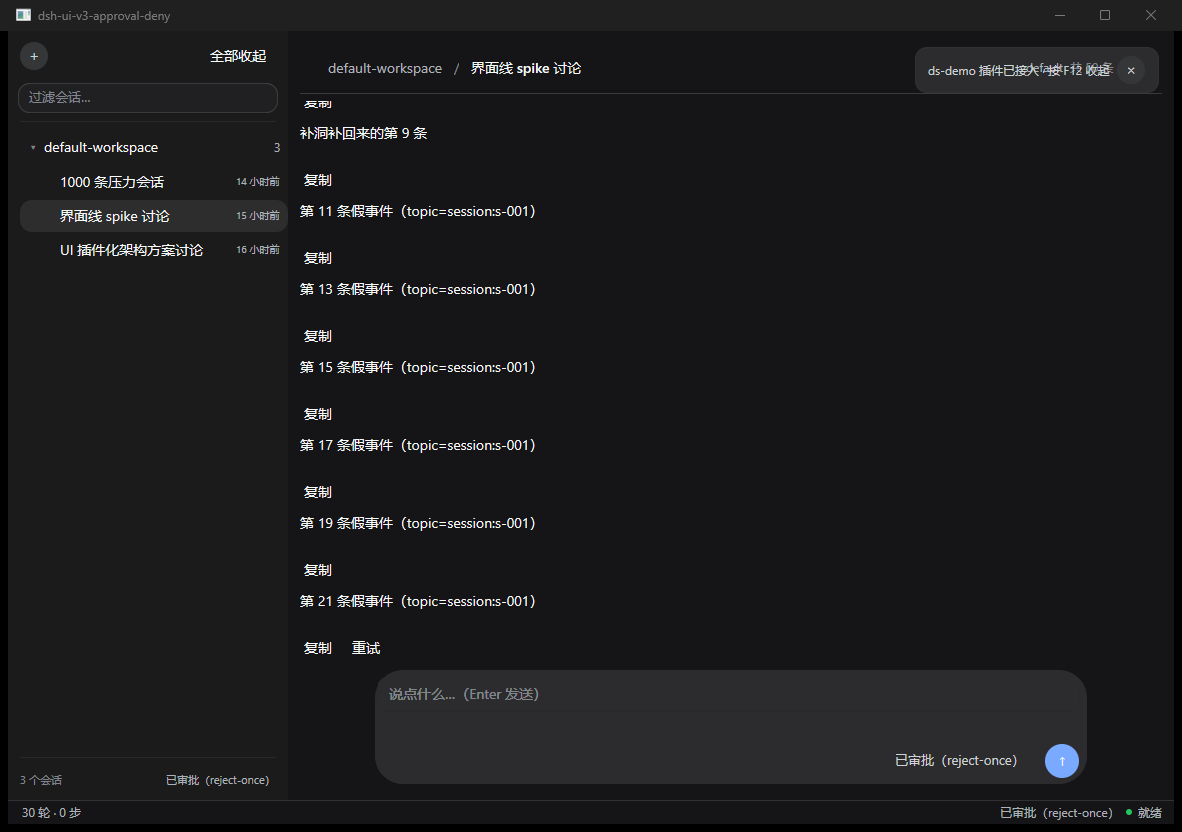
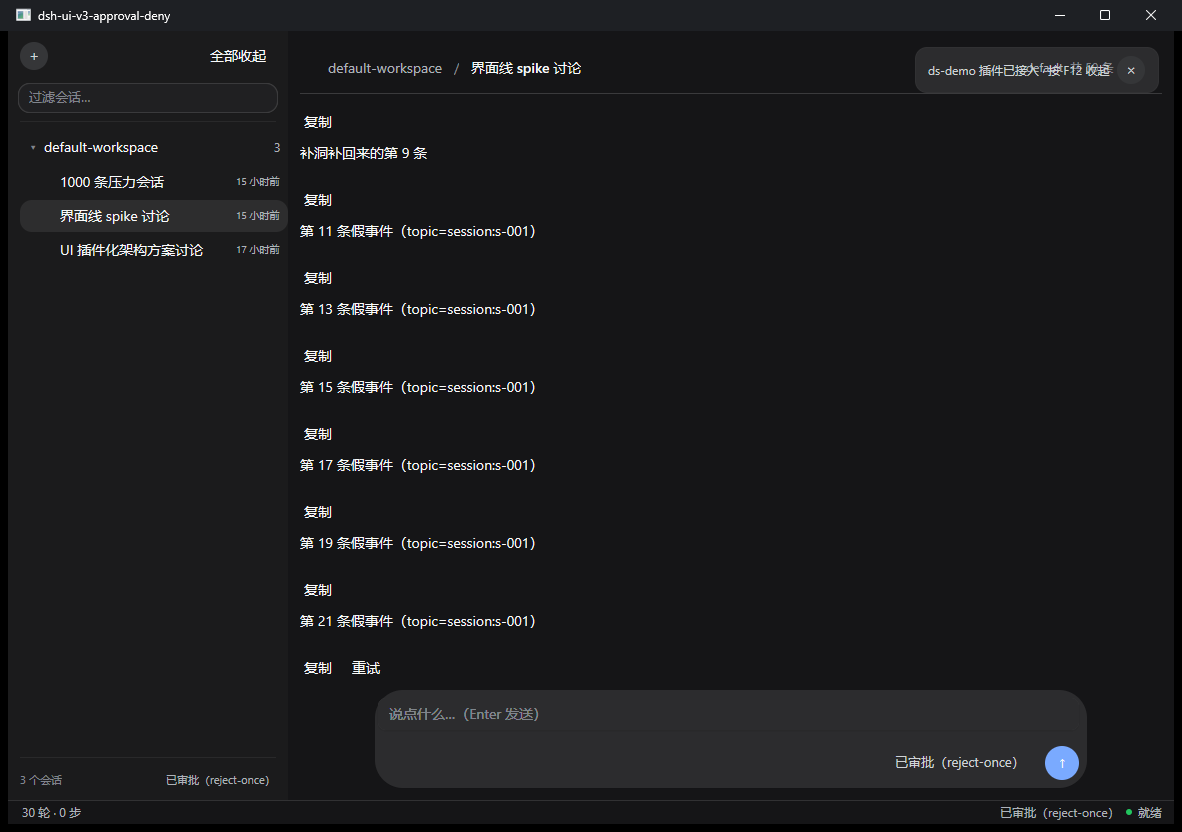
composer：发送键上移写成 sendLift 常量 + 注释与截图同步
工作区里这一版把「发送键上移 2px」从散落在两个参数里的式子收成 sendLift 常量，
并把顶部注释改成与实现一致的「active 36 / hero 52」（之前写的是「最终 min-height 52」，
正是那个把 hero 档当常驻档的来源）。testdata 里的 v3 截图同步更新。

验证：go build ./... OK、go test ./plugins/dscomposer/ ok。

diff --git a/plugins/dscomposer/composer_test.go b/plugins/dscomposer/composer_test.go
@@ -72,21 +72,26 @@ func TestComposerCardMatchesOfficialGeometry(t *testing.T) {
 	// 官方 ConversationRoot + InputBar：
 	// content=clamp(680, main*.64, 920)，cardMax=content+32；
 	// shell 左右各 12，composer root 左右各 16，卡片在剩余空间中居中。
-	// 空草稿高度 = top 8 + input 52 + gap 12 + controlRow(2+34+6) = 114。
+	// hero（无会话）input 52 → 卡高 114；active（有会话）input 36 → 卡高 98。
+	// 其余都是 top 8 + gap 12 + controlRow(2+34+6)。
 	cases := []struct {
 		name       string
 		main       float32
 		window     float32
+		cur        string
 		wantWidth  float32
 		wantLocalX float32
+		wantHeight float32
 	}{
-		{name: "1920 主区", main: 1640, window: 1920, wantWidth: 952, wantLocalX: 332},
-		{name: "1182 主区", main: 902, window: 1182, wantWidth: 712, wantLocalX: 83},
+		{name: "1920 hero", main: 1640, window: 1920, wantWidth: 952, wantLocalX: 332, wantHeight: 114},
+		{name: "1920 active", main: 1640, window: 1920, cur: "s-001", wantWidth: 952, wantLocalX: 332, wantHeight: 98},
+		{name: "1182 hero", main: 902, window: 1182, wantWidth: 712, wantLocalX: 83, wantHeight: 114},
+		{name: "1182 active", main: 902, window: 1182, cur: "s-001", wantWidth: 712, wantLocalX: 83, wantHeight: 98},
 	}
 	for _, tc := range cases {
 		t.Run(tc.name, func(t *testing.T) {
 			p := &Plugin{}
-			canvas := renderComposer(t, p, pluginapi.Snapshot{}, pluginapi.Actions{}, tc.main, tc.window, "")
+			canvas := renderComposer(t, p, pluginapi.Snapshot{Cur: tc.cur}, pluginapi.Actions{}, tc.main, tc.window, "")
 			card, ok := largestSurface(canvas, p.theme.InputMajor)
 			if !ok {
 				t.Fatal("找不到 composer 的 InputMajor 面板")
@@ -97,8 +102,8 @@ func TestComposerCardMatchesOfficialGeometry(t *testing.T) {
 			if !closeEnough(card.Bounds.X, tc.wantLocalX) {
 				t.Errorf("卡片在主区内容框中的 x = %.2f，官方居中 x %.2f", card.Bounds.X, tc.wantLocalX)
 			}
-			if !closeEnough(card.Bounds.Height, 114) {
-				t.Errorf("空草稿卡片高 = %.2f，官方 114", card.Bounds.Height)
+			if !closeEnough(card.Bounds.Height, tc.wantHeight) {
+				t.Errorf("卡片高 = %.2f，官方 %.2f", card.Bounds.Height, tc.wantHeight)
 			}
 			if !closeEnough(card.Radius, 28) {
 				t.Errorf("卡片圆角 = %.2f，官方 radius-panel 28", card.Radius)
@@ -153,6 +158,12 @@ func TestComposerShowsHostTruthInOfficialSeats(t *testing.T) {
 	if !(permissionX >= 0 && permissionX < modelX && modelX < statusX && statusX < primaryX) {
 		t.Errorf("控件顺序应为 permission < model < status < primary；x=%v/%v/%v/%v",
 			permissionX, modelX, statusX, primaryX)
+	}
+	card, _ := largestSurface(canvas, p.theme.InputMajor)
+	// 官方 DOM 明确：modes 只有 permission/plan；model 在右侧 standardControls。
+	if modelX < card.Bounds.X+card.Bounds.Width/2 {
+		t.Errorf("model 必须落在右 trailing，而不是左 modes：modelX=%.2f cardCenter=%.2f",
+			modelX, card.Bounds.X+card.Bounds.Width/2)
 	}
 }
 
@@ -216,7 +227,7 @@ func TestEscapeWithoutApprovalPreservesCancelRoute(t *testing.T) {
 func TestApprovalCardMatchesOfficialSurface(t *testing.T) {
 	p := &Plugin{}
 	ap := hostFrame()
-	canvas := renderComposer(t, p, pluginapi.Snapshot{Approval: &ap}, pluginapi.Actions{}, 902, 1182, "")
+	canvas := renderComposer(t, p, pluginapi.Snapshot{Cur: "s-001", Approval: &ap}, pluginapi.Actions{}, 902, 1182, "")
 	foundOuter, foundFill := false, false
 	var outer, composer ui.Rectangle
 	for _, r := range canvas.Rectangles() {

diff --git a/plugins/dscomposer/composer.go b/plugins/dscomposer/composer.go
@@ -3,7 +3,7 @@
 // 官方对应物是 `@deepseek-ai/dsh-client-ui-conversation`（不是 ui-chat）：
 //
 //	InputBar.module.css   .GRgSLq_card     输入框那张大圆角卡片
-//	                      .GRgSLq_input    卡片里的可编辑区（最终 min-height 52、padding 4/8/0/14）
+//	                      .GRgSLq_input    可编辑区（active 36 / hero 52，padding 4/8/0/14）
 //	                      .GRgSLq_row      底部控件行（padding 2/8/6、space-between）
 //	                      .GRgSLq_add      命令键 28×28 圆形（无真实命令动作时不画）
 //	                      ModelSelect / PermissionSelect trigger（高 28、radius sm、13px）
@@ -285,20 +285,16 @@ func (p *Plugin) drawControls(f *flex.Frame, env *pluginapi.Env) {
 	f.Row().FillWidth().Height(rowPadTop+sendSize+rowPadBottom).
 		PadSides(rowPadTop-sendLift, rowPadSide, rowPadBottom+sendLift, rowPadSide).
 		Items(flex.Center).Justify(flex.Between).Gap(cardGap).Children(func() {
-		// 官方 InputBar 的控件行分两簇：左簇是权限/模型这类"模式"，右簇是
-		// 活动状态 + 主按钮。**左簇内部的先后顺序我没找到确定的出处**：
-		// 现有测试与这份代码的注释都要求 permission 在 model 左边，所以保持
-		// permission → model；如果将来从 asar 里读出确切 DOM 顺序再改，
-		// 别凭"感觉哪个更重"来排。
+		// 官方 DOM 的左 modes 只有 permission/plan；model 属于右 standardControls。
 		if permission != "" {
 			p.hostChip(f, permission, permissionChipWeight)
-		}
-		if model != "" {
-			p.hostChip(f, model, modelChipWeight)
 		}
 		// 即使左边为空，Spacer 也把右侧 trailing 固定到卡片右缘。
 		f.Spacer()
 		f.Row().Items(flex.Center).Gap(cardGap).Children(func() {
+			if model != "" {
+				p.hostChip(f, model, modelChipWeight)
+			}
 			if status != "" {
 				p.hostChip(f, status, modelChipWeight)
 			}
